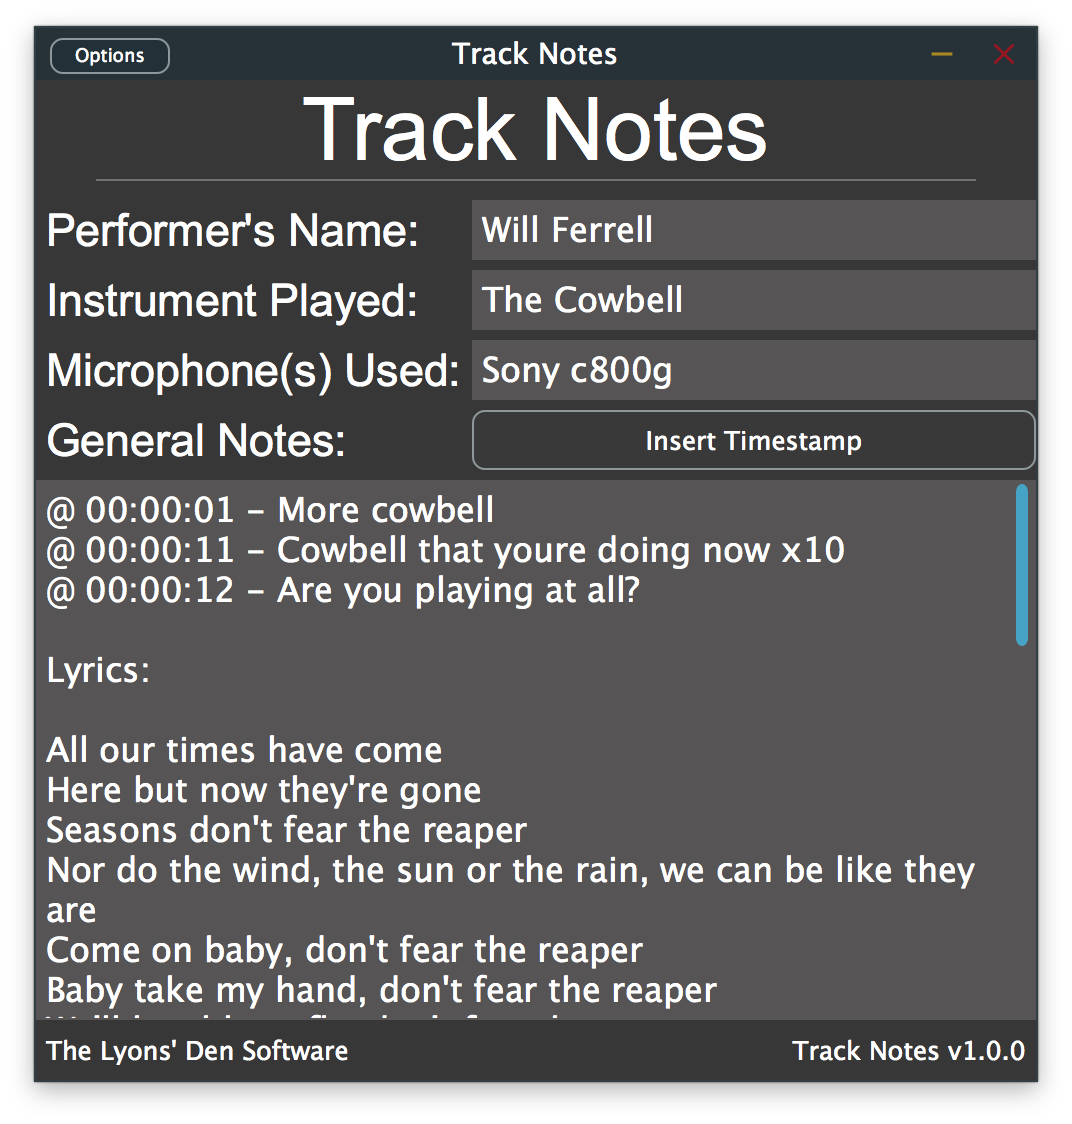
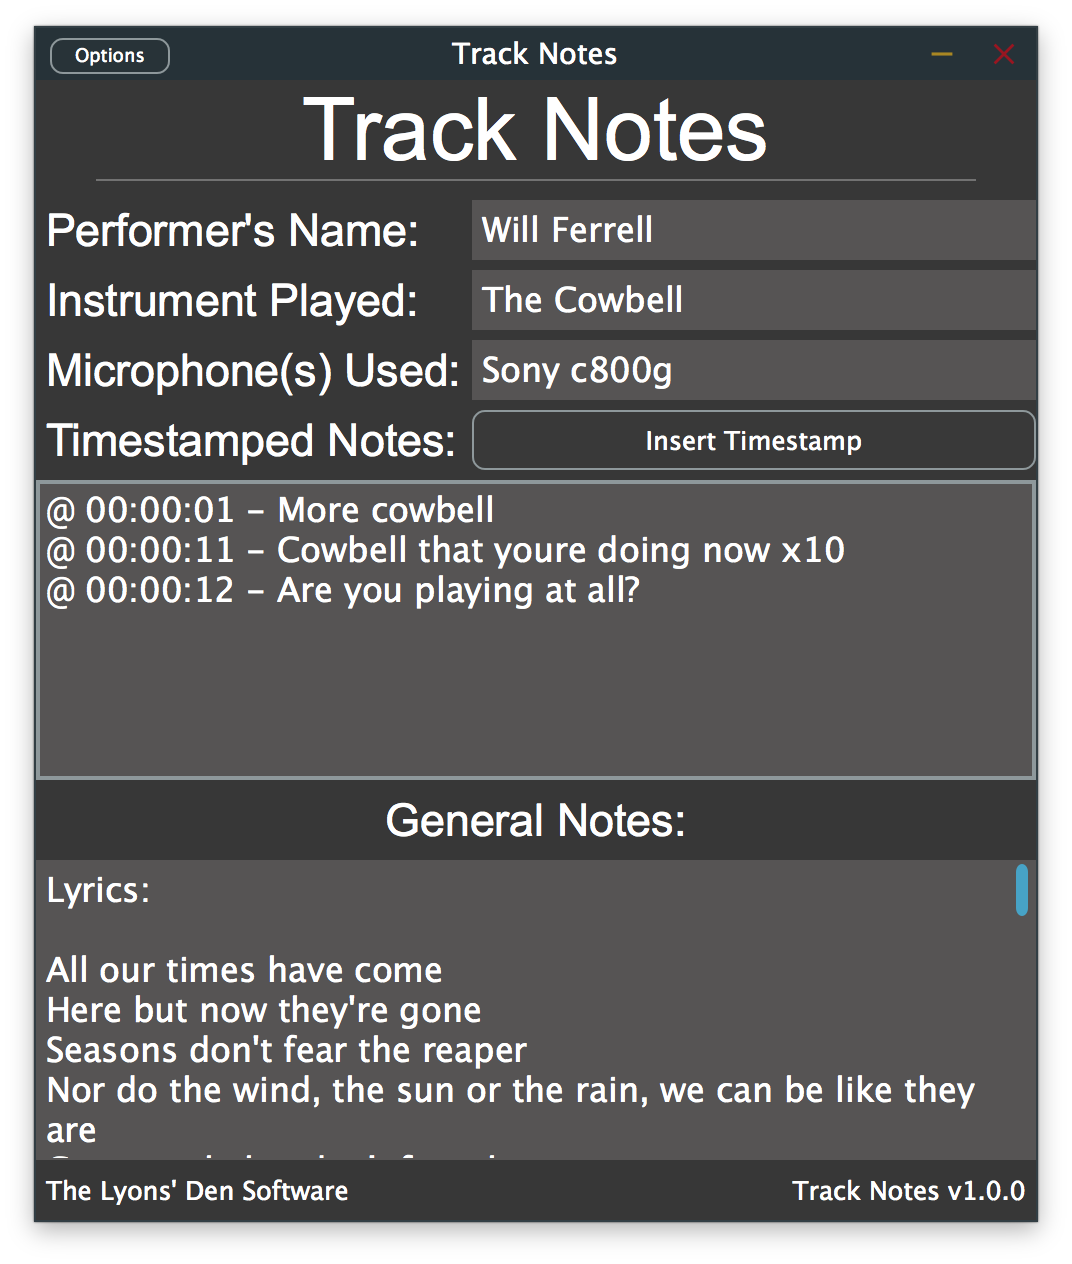
Separated timestamped and general notes features

diff --git a/Source/PluginEditor.cpp b/Source/PluginEditor.cpp
@@ -34,7 +34,7 @@ TrackNotesAudioProcessorEditor::TrackNotesAudioProcessorEditor (TrackNotesAudioP
     //[Constructor_pre] You can add your own custom stuff here..
 
     // Point TextEditors Ptrs of processor class to actual GUI TextEditors in Editor class
-    
+
     addAndMakeVisible (performersNameEditor = &p.performersNameEditor);
     performersNameEditor->setMultiLine (false);
     performersNameEditor->setReturnKeyStartsNewLine (false);
@@ -45,7 +45,7 @@ TrackNotesAudioProcessorEditor::TrackNotesAudioProcessorEditor (TrackNotesAudioP
     performersNameEditor->setColour (TextEditor::backgroundColourId, Colour (0xff565454));
     performersNameEditor->setColour (TextEditor::highlightColourId, Colours::black);
     performersNameEditor->setColour (TextEditor::outlineColourId, Colour (0xff565454));
-    
+
 
     addAndMakeVisible (instrumentPlayedEditor = &p.instrumentPlayedEditor);
     instrumentPlayedEditor->setMultiLine (false);
@@ -69,6 +69,17 @@ TrackNotesAudioProcessorEditor::TrackNotesAudioProcessorEditor (TrackNotesAudioP
     microphonesUsedEditor->setColour (TextEditor::highlightColourId, Colours::black);
     microphonesUsedEditor->setColour (TextEditor::outlineColourId, Colour (0xff565454));
 
+    addAndMakeVisible (timestampedNotesEditor = &p.timestampedNotesEditor);
+    timestampedNotesEditor->setMultiLine (true);
+    timestampedNotesEditor->setReturnKeyStartsNewLine (true);
+    timestampedNotesEditor->setReadOnly (false);
+    timestampedNotesEditor->setScrollbarsShown (true);
+    timestampedNotesEditor->setCaretVisible (true);
+    timestampedNotesEditor->setPopupMenuEnabled (true);
+    timestampedNotesEditor->setColour (TextEditor::backgroundColourId, Colour (0xff565454));
+    timestampedNotesEditor->setColour (TextEditor::highlightColourId, Colours::black);
+    timestampedNotesEditor->setColour (TextEditor::outlineColourId, Colour (0xff565454));
+
     addAndMakeVisible (generalNotesEditor = &p.generalNotesEditor);
     generalNotesEditor->setMultiLine (true);
     generalNotesEditor->setReturnKeyStartsNewLine (true);
@@ -79,18 +90,20 @@ TrackNotesAudioProcessorEditor::TrackNotesAudioProcessorEditor (TrackNotesAudioP
     generalNotesEditor->setColour (TextEditor::backgroundColourId, Colour (0xff565454));
     generalNotesEditor->setColour (TextEditor::highlightColourId, Colours::black);
     generalNotesEditor->setColour (TextEditor::outlineColourId, Colour (0xff565454));
-    
+
     // Set up text editor font sizes
     fontSize = 20;
     performersNameEditor->setFont(fontSize);
     instrumentPlayedEditor->setFont(fontSize);
     microphonesUsedEditor->setFont(fontSize);
+    timestampedNotesEditor->setFont(fontSize);
     generalNotesEditor->setFont(fontSize);
-    
+
     // Update TextEditors after font size change
     performersNameEditor->setText(performersNameEditor->getText());
     instrumentPlayedEditor->setText(instrumentPlayedEditor->getText());
     microphonesUsedEditor->setText(microphonesUsedEditor->getText());
+    timestampedNotesEditor->setText(timestampedNotesEditor->getText());
     generalNotesEditor->setText(generalNotesEditor->getText());
 
     //[/Constructor_pre]
@@ -128,13 +141,13 @@ TrackNotesAudioProcessorEditor::TrackNotesAudioProcessorEditor (TrackNotesAudioP
     microphonesUsedLabel->setColour (TextEditor::textColourId, Colours::black);
     microphonesUsedLabel->setColour (TextEditor::backgroundColourId, Colour (0x00000000));
 
-    addAndMakeVisible (generalNotesLabel = new Label ("generalNotesLabel",
-                                                      TRANS("General Notes:")));
-    generalNotesLabel->setFont (Font ("Arial", 25.00f, Font::plain).withTypefaceStyle ("Regular"));
-    generalNotesLabel->setJustificationType (Justification::centredLeft);
-    generalNotesLabel->setEditable (false, false, false);
-    generalNotesLabel->setColour (TextEditor::textColourId, Colours::black);
-    generalNotesLabel->setColour (TextEditor::backgroundColourId, Colour (0x00000000));
+    addAndMakeVisible (timestampedNotesLabel = new Label ("timestampedNotesLabel",
+                                                          TRANS("Timestamped Notes:")));
+    timestampedNotesLabel->setFont (Font ("Arial", 25.00f, Font::plain).withTypefaceStyle ("Regular"));
+    timestampedNotesLabel->setJustificationType (Justification::centredLeft);
+    timestampedNotesLabel->setEditable (false, false, false);
+    timestampedNotesLabel->setColour (TextEditor::textColourId, Colours::black);
+    timestampedNotesLabel->setColour (TextEditor::backgroundColourId, Colour (0x00000000));
 
     addAndMakeVisible (insertTimeStampButton = new TextButton ("insertTimeStampButton"));
     insertTimeStampButton->setButtonText (TRANS("Insert Timestamp"));
@@ -157,11 +170,19 @@ TrackNotesAudioProcessorEditor::TrackNotesAudioProcessorEditor (TrackNotesAudioP
     theLyonsDenSoftware->setColour (TextEditor::textColourId, Colours::black);
     theLyonsDenSoftware->setColour (TextEditor::backgroundColourId, Colour (0x00000000));
 
+    addAndMakeVisible (generalNotesLabel = new Label ("generalNotesLabel",
+                                                      TRANS("General Notes:")));
+    generalNotesLabel->setFont (Font ("Arial", 25.00f, Font::plain).withTypefaceStyle ("Regular"));
+    generalNotesLabel->setJustificationType (Justification::centred);
+    generalNotesLabel->setEditable (false, false, false);
+    generalNotesLabel->setColour (TextEditor::textColourId, Colours::black);
+    generalNotesLabel->setColour (TextEditor::backgroundColourId, Colour (0x00000000));
+
 
     //[UserPreSize]
     //[/UserPreSize]
 
-    setSize (500, 500);
+    setSize (500, 570);
 
 
     //[Constructor] You can add your own custom stuff here..
@@ -181,10 +202,11 @@ TrackNotesAudioProcessorEditor::TrackNotesAudioProcessorEditor (TrackNotesAudioP
 TrackNotesAudioProcessorEditor::~TrackNotesAudioProcessorEditor()
 {
     //[Destructor_pre]. You can add your own custom destruction code here..
-    
+
     performersNameEditor = nullptr;
     instrumentPlayedEditor = nullptr;
     microphonesUsedEditor = nullptr;
+    timestampedNotesEditor = nullptr;
     generalNotesEditor = nullptr;
 
     //[/Destructor_pre]
@@ -193,14 +215,15 @@ TrackNotesAudioProcessorEditor::~TrackNotesAudioProcessorEditor()
     performersNameLabel = nullptr;
     instrumentPlayedLabel = nullptr;
     microphonesUsedLabel = nullptr;
-    generalNotesLabel = nullptr;
+    timestampedNotesLabel = nullptr;
     insertTimeStampButton = nullptr;
     versionNumberLabel = nullptr;
     theLyonsDenSoftware = nullptr;
+    generalNotesLabel = nullptr;
 
 
     //[Destructor]. You can add your own custom destruction code here..
-    
+
     //[/Destructor]
 }
 
@@ -228,7 +251,8 @@ void TrackNotesAudioProcessorEditor::resized()
     performersNameEditor->setBounds (218, 60, 282, 30);
     instrumentPlayedEditor->setBounds (218, 95, 282, 30);
     microphonesUsedEditor->setBounds (218, 130, 282, 30);
-    generalNotesEditor->setBounds (0, 200, 500, 270);
+    timestampedNotesEditor->setBounds (0, 200, 500, 150);
+    generalNotesEditor->setBounds (0, 390, 500, 150);
 
     //[/UserPreResize]
 
@@ -236,10 +260,11 @@ void TrackNotesAudioProcessorEditor::resized()
     performersNameLabel->setBounds (0, 60, 218, 30);
     instrumentPlayedLabel->setBounds (0, 95, 218, 30);
     microphonesUsedLabel->setBounds (0, 130, 218, 30);
-    generalNotesLabel->setBounds (0, 165, 218, 30);
+    timestampedNotesLabel->setBounds (0, 165, 218, 30);
     insertTimeStampButton->setBounds (218, 165, 282, 30);
-    versionNumberLabel->setBounds (250, 470, 250, 30);
-    theLyonsDenSoftware->setBounds (0, 470, 250, 30);
+    versionNumberLabel->setBounds (250, 540, 250, 30);
+    theLyonsDenSoftware->setBounds (0, 540, 250, 30);
+    generalNotesLabel->setBounds (0, 355, 500, 30);
     //[UserResized] Add your own custom resize handling here..
     //[/UserResized]
 }
@@ -268,7 +293,7 @@ void TrackNotesAudioProcessorEditor::buttonClicked (Button* buttonThatWasClicked
         int minutes      = totalSeconds / 60;
         int seconds      = totalSeconds % 60;
 
-        String temp = generalNotesEditor->getText();
+        String temp = timestampedNotesEditor->getText();
 
         // Format and build timecode
         temp += "\n@ ";
@@ -297,12 +322,12 @@ void TrackNotesAudioProcessorEditor::buttonClicked (Button* buttonThatWasClicked
         temp += seconds;
         temp += " - ";
 
-        generalNotesEditor->setText(temp);
+        timestampedNotesEditor->setText(temp);
 
         // Put editor into focus and then move caret to end,
         // Which is where new timestamp has been inserted
-        generalNotesEditor->grabKeyboardFocus();
-        generalNotesEditor->moveCaretToEnd();
+        timestampedNotesEditor->grabKeyboardFocus();
+        timestampedNotesEditor->moveCaretToEnd();
 
         //[/UserButtonCode_insertTimeStampButton]
     }
@@ -331,7 +356,7 @@ BEGIN_JUCER_METADATA
                  componentName="" parentClasses="public AudioProcessorEditor, public TextEditorListener"
                  constructorParams="TrackNotesAudioProcessor &amp;p" variableInitialisers="AudioProcessorEditor (&amp;p), processor (p)"
                  snapPixels="8" snapActive="1" snapShown="1" overlayOpacity="0.330"
-                 fixedSize="1" initialWidth="500" initialHeight="500">
+                 fixedSize="1" initialWidth="500" initialHeight="570">
   <BACKGROUND backgroundColour="ff373737"/>
   <LABEL name="trackNotesLabel" id="92aa8337c9826f3e" memberName="trackNotesLabel"
          virtualName="" explicitFocusOrder="0" pos="0 0 500 50" textCol="ffffffff"
@@ -354,9 +379,9 @@ BEGIN_JUCER_METADATA
          edBkgCol="0" labelText="Microphone(s) Used:" editableSingleClick="0"
          editableDoubleClick="0" focusDiscardsChanges="0" fontname="Arial"
          fontsize="25" kerning="0" bold="0" italic="0" justification="33"/>
-  <LABEL name="generalNotesLabel" id="358938facaa251fc" memberName="generalNotesLabel"
+  <LABEL name="timestampedNotesLabel" id="358938facaa251fc" memberName="timestampedNotesLabel"
          virtualName="" explicitFocusOrder="0" pos="0 165 218 30" edTextCol="ff000000"
-         edBkgCol="0" labelText="General Notes:" editableSingleClick="0"
+         edBkgCol="0" labelText="Timestamped Notes:" editableSingleClick="0"
          editableDoubleClick="0" focusDiscardsChanges="0" fontname="Arial"
          fontsize="25" kerning="0" bold="0" italic="0" justification="33"/>
   <TEXTBUTTON name="insertTimeStampButton" id="2d604f6be40451a7" memberName="insertTimeStampButton"
@@ -364,15 +389,20 @@ BEGIN_JUCER_METADATA
               buttonText="Insert Timestamp" connectedEdges="0" needsCallback="1"
               radioGroupId="0"/>
   <LABEL name="versionNumberLabel" id="3348cbd74595514b" memberName="versionNumberLabel"
-         virtualName="" explicitFocusOrder="0" pos="250 470 250 30" edTextCol="ff000000"
+         virtualName="" explicitFocusOrder="0" pos="250 540 250 30" edTextCol="ff000000"
          edBkgCol="0" labelText="" editableSingleClick="0" editableDoubleClick="0"
          focusDiscardsChanges="0" fontname="Default font" fontsize="15"
          kerning="0" bold="0" italic="0" justification="34"/>
   <LABEL name="theLyonsDenSoftware" id="d0cfddad51f6f3" memberName="theLyonsDenSoftware"
-         virtualName="" explicitFocusOrder="0" pos="0 470 250 30" edTextCol="ff000000"
+         virtualName="" explicitFocusOrder="0" pos="0 540 250 30" edTextCol="ff000000"
          edBkgCol="0" labelText="The Lyons' Den Software" editableSingleClick="0"
          editableDoubleClick="0" focusDiscardsChanges="0" fontname="Default font"
          fontsize="15" kerning="0" bold="0" italic="0" justification="33"/>
+  <LABEL name="generalNotesLabel" id="c170b98fbe39594f" memberName="generalNotesLabel"
+         virtualName="" explicitFocusOrder="0" pos="0 355 500 30" edTextCol="ff000000"
+         edBkgCol="0" labelText="General Notes:" editableSingleClick="0"
+         editableDoubleClick="0" focusDiscardsChanges="0" fontname="Arial"
+         fontsize="25" kerning="0" bold="0" italic="0" justification="36"/>
 </JUCER_COMPONENT>
 
 END_JUCER_METADATA

diff --git a/Source/PluginProcessor.cpp b/Source/PluginProcessor.cpp
@@ -150,7 +150,8 @@ void TrackNotesAudioProcessor::getStateInformation (MemoryBlock& destData)
     xml.setAttribute ("performersName", performersNameEditor.getText());
     xml.setAttribute ("instrumentPlayed", instrumentPlayedEditor.getText());
     xml.setAttribute ("microphonesUsed", microphonesUsedEditor.getText());
-    xml.setAttribute ("generalNotes", generalNotesEditor.getText());
+    xml.setAttribute ("timestampedNotes", timestampedNotesEditor.getText());
+    xml.setAttribute("generalNotes", generalNotesEditor.getText());
     
     // Store the values of all our parameters, using their param ID as the XML attribute
     for (int i = 0; i < getNumParameters(); ++i)
@@ -186,6 +187,7 @@ void TrackNotesAudioProcessor::setStateInformation (const void* data, int sizeIn
             performersNameEditor.setText(xmlState->getStringAttribute("performersName"));
             instrumentPlayedEditor.setText(xmlState->getStringAttribute("instrumentPlayed"));
             microphonesUsedEditor.setText(xmlState->getStringAttribute("microphonesUsed"));
+            timestampedNotesEditor.setText(xmlState->getStringAttribute("timestampedNotes"));
             generalNotesEditor.setText(xmlState->getStringAttribute("generalNotes"));
             
             // Now reload our parameters..

diff --git a/Source/PluginEditor.h b/Source/PluginEditor.h
@@ -64,6 +64,7 @@ private:
     SafePointer<TextEditor> performersNameEditor;
     SafePointer<TextEditor> instrumentPlayedEditor;
     SafePointer<TextEditor> microphonesUsedEditor;
+    SafePointer<TextEditor> timestampedNotesEditor;
     SafePointer<TextEditor> generalNotesEditor;
 
     //[/UserVariables]
@@ -73,10 +74,11 @@ private:
     ScopedPointer<Label> performersNameLabel;
     ScopedPointer<Label> instrumentPlayedLabel;
     ScopedPointer<Label> microphonesUsedLabel;
-    ScopedPointer<Label> generalNotesLabel;
+    ScopedPointer<Label> timestampedNotesLabel;
     ScopedPointer<TextButton> insertTimeStampButton;
     ScopedPointer<Label> versionNumberLabel;
     ScopedPointer<Label> theLyonsDenSoftware;
+    ScopedPointer<Label> generalNotesLabel;
 
 
     //==============================================================================

diff --git a/Source/PluginProcessor.h b/Source/PluginProcessor.h
@@ -55,9 +55,15 @@ public:
     void getStateInformation (MemoryBlock& destData) override;
     void setStateInformation (const void* data, int sizeInBytes) override;
     
+//    TextEditor getPerformersNameEditor()   { return performersNameEditor; }
+//    TextEditor getInstrumentPlayedEditor() { return instrumentPlayedEditor; }
+//    TextEditor getMicrophonesUsedEditor()  { return microphonesUsedEditor; }
+//    TextEditor getGeneralNotesEditor()     { return generalNotesEditor; }
+    
     TextEditor performersNameEditor;
     TextEditor instrumentPlayedEditor;
     TextEditor microphonesUsedEditor;
+    TextEditor timestampedNotesEditor;
     TextEditor generalNotesEditor;
     
 private:

diff --git a/README.md b/README.md
@@ -13,6 +13,7 @@ A simple plugin to hold your session and track notes.
 * Crashes DAW on reopening a window
 
 ## Things to do before release:
+* Append pointer items with Ptr
 * Make string pointers private
 * Make setter and getter methods for processor class strings
 
